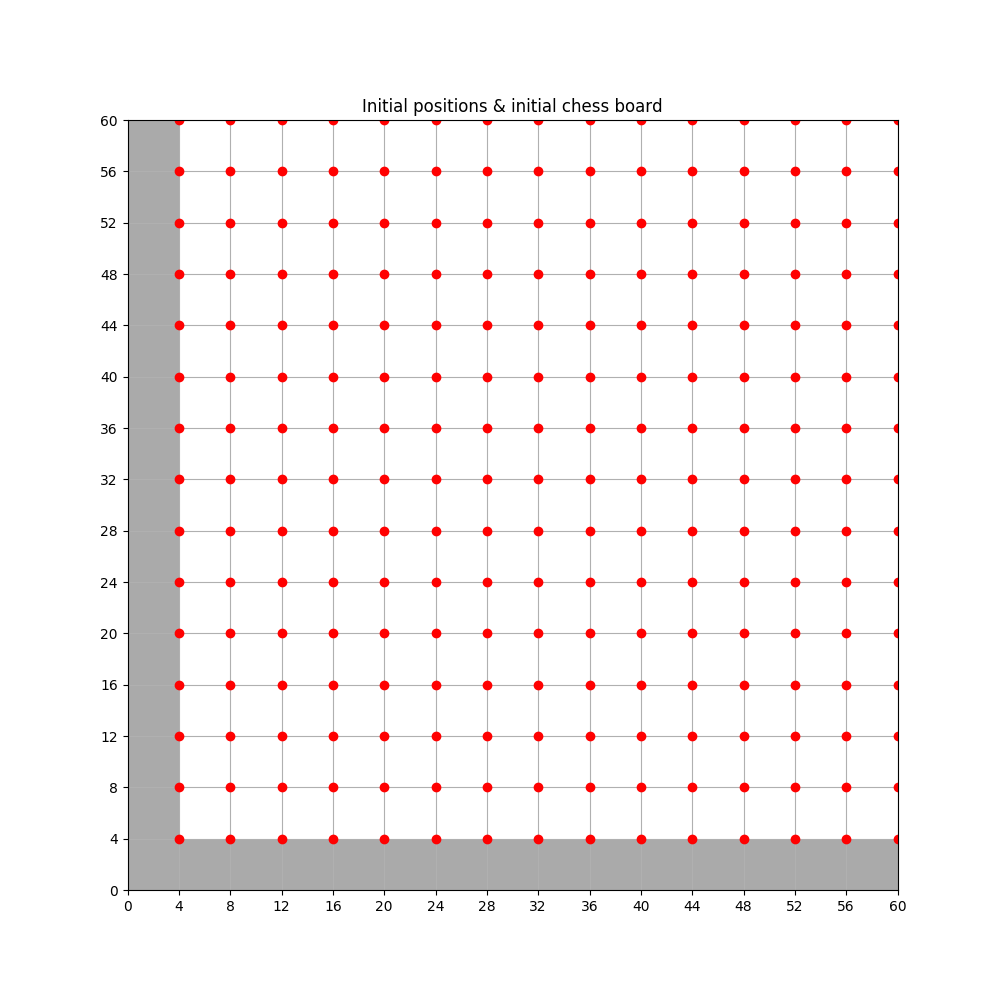
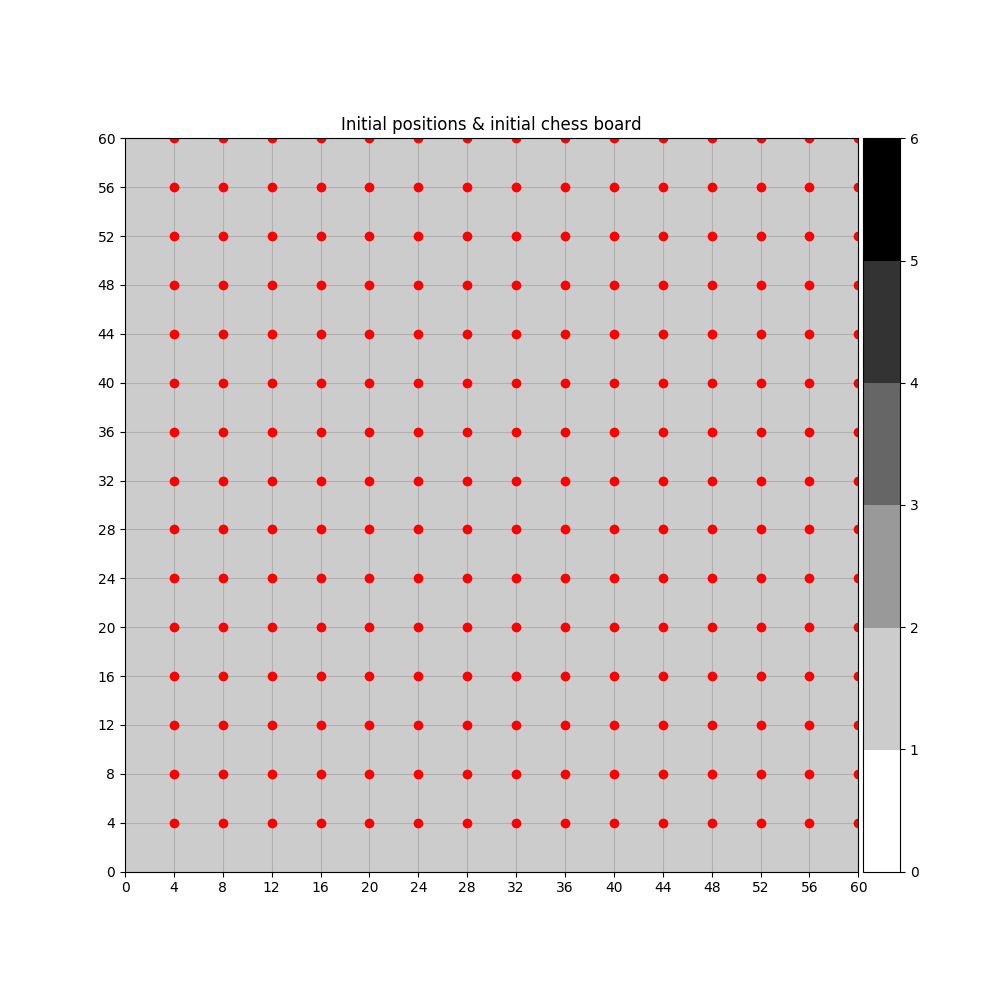
- Balls replacement looks sound. Ready for next step.

diff --git a/test_units/test_replace_bad_balls.py b/test_units/test_replace_bad_balls.py
@@ -3,7 +3,10 @@ import numpy as np
 import matplotlib
 #matplotlib.use('qt5agg')
 import matplotlib.pyplot as plt
+from mpl_toolkits.axes_grid1 import make_axes_locatable
 import matplotlib.ticker as plticker
+from matplotlib import cm
+
 
 import balltracking.balltrack as blt
 import fitstools
@@ -53,27 +56,27 @@ bad_balls = blt.get_bad_balls(pos[:,tstop,:], bt)
 # Get [x, y] coordinates of these bad balls at time = tstop
 xbad = pos[0, tstop, bad_balls]
 ybad = pos[1, tstop, bad_balls]
+
+# Initial chess board
+chess_board_init = blt.fill_coarse_grid(bt, bt.xstart, bt.ystart)
 # Fill the coarse grid at the cells that map to the bad positions
-chess_board = blt.fill_coarse_grid(bt, xbad, ybad)
-# The above fills the chess_board with only bad balls
-# TODO: Populate the chessboard with also all the balls. Show it maybe before the latter.
-
-
+chess_board_all = blt.fill_coarse_grid(bt, pos[0, tstop, :], pos[1, tstop, :])
+chess_board_bad = blt.fill_coarse_grid(bt, xbad, ybad)
 # Use a copy of the pos array, because relocating the bad balls overwrite that input.
 pos2 = pos.copy()
 # Replace bad balls and get the new positions that fills the empty coarse grid cells
 xnew, ynew = blt.replace_bad_balls(pos2[:,tstop,:], surface, bt)
+# Check new chess board
+chess_board_relocation = blt.fill_coarse_grid(bt, xnew, ynew)
 
-# Check new state of the chessboard
-bad_balls_mask = blt.get_bad_balls(pos2[:,tstop,:], bt)
-# Get [x, y] coordinates of these bad balls at time = tstop
-xbad2 = pos2[0, tstop, bad_balls[np.logical_not(bad_balls_mask)]]
-ybad2 = pos2[1, tstop, bad_balls]
-# Fill the coarse grid at the cells that map to the bad positions
-chess_board2 = blt.fill_coarse_grid(bt, xbad2, ybad2)
-
+# Get rid of nan to see new chessboard
+validmask = pos2[2,tstop,:] != -1
+valid_pos = pos2[:, tstop, validmask]
+new_chess_board = blt.fill_coarse_grid(bt, valid_pos[0, :], valid_pos[1, :])
 
 
+
+gmap = cm.gray_r.from_list('whatever', ('white', 'black'), N=6)
 
 ### Display ###
 print_fig = True
@@ -82,9 +85,16 @@ fig = plt.figure(2, figsize=(10, 10))
 ax = fig.add_subplot(1,1,1)
 
 # Overlay initial positions
-plt.plot(bt.xstart, bt.ystart, 'ro')
-plt.axis([0, 60, 0, 60])
-plt.imshow(bt.coarse_grid, cmap='gray_r', origin='lower', vmin=0, vmax=3, extent=(0,bt.nx-1, 0, bt.ny-1))
+ax.plot(bt.xstart, bt.ystart, 'ro')
+ax.axis([0, 60, 0, 60])
+im = ax.imshow(chess_board_init, cmap=gmap, origin='lower', vmin=0, vmax=6, extent=(0,bt.nx-1, 0, bt.ny-1))
+
+ax.set_title('Initial positions & initial chess board')
+
+divider = make_axes_locatable(ax)
+cax = divider.append_axes("right", size="5%", pad=0.05)
+cb1 = plt.colorbar(im, cax=cax)
+
 
 # Overaly the coarse grid lines
 #Spacing between each line
@@ -94,48 +104,56 @@ ax.xaxis.set_major_locator(loc)
 ax.yaxis.set_major_locator(loc)
 ax.grid(which='major', axis='both', linestyle='-')
 
-plt.title('Initial positions & initial chess board')
-
 if print_fig:
     plt.savefig('/Users/rattie/Dev/sdo_tracking_framework/figures/replace_bad_balls_0.png')
 
+
 # Overlay all other integrated positions
-plt.plot(pos[0, :, :], pos[1, :, :], 'b.')
+ax.plot(pos[0, :, :], pos[1, :, :], 'b.')
 # Last position
-plt.plot(pos[0, tstop, :], pos[1, tstop, :], 'c.', markersize=4)
-plt.title('All positions untill tstop = %d'%tstop)
+ax.plot(pos[0, tstop, :], pos[1, tstop, :], 'c.', markersize=4)
+ax.set_title('All positions untill tstop = %d'%tstop)
 
 if print_fig:
     plt.savefig('/Users/rattie/Dev/sdo_tracking_framework/figures/replace_bad_balls_1.png')
 
-# Show the chess board with and setup proper axis
-plt.imshow(chess_board, cmap='gray_r', origin='lower', vmin=0, vmax=3, extent=(0,bt.nx-1, 0, bt.ny-1))
-plt.title('Chessboard of bad cells')
 
 # bad position
-plt.plot(xbad, ybad, 'yo', markersize=6, markerfacecolor='none', mew=2)
+ax.plot(xbad, ybad, 'yo', markersize=6, markerfacecolor='none', mew=2)
 #plt.plot(np.floor(x/bt.ballspacing)*bt.ballspacing, np.floor(y/bt.ballspacing)*bt.ballspacing, 'ro', markersize=6, markerfacecolor='none')
-plt.title('Bad positions & chess board')
+
+# Show the chess board with just the bad balls
+im = ax.imshow(chess_board_all, cmap=gmap, origin='lower', vmin=0, vmax=5, extent=(0,bt.nx-1, 0, bt.ny-1))
+ax.set_title('Chessboard & overpopulation')
+
 
 if print_fig:
     plt.savefig('/Users/rattie/Dev/sdo_tracking_framework/figures/replace_bad_balls_2.png')
 
 # Add the new positions
-plt.plot(xnew, ynew, 'o', markeredgecolor='xkcd:green', markersize = 8, markerfacecolor='none', mew=2)
-plt.title('New positions')
+ax.plot(xnew, ynew, 'o', markeredgecolor='xkcd:green', markersize = 8, markerfacecolor='none', mew=2)
+ax.set_title('New positions')
 
 if print_fig:
     plt.savefig('/Users/rattie/Dev/sdo_tracking_framework/figures/replace_bad_balls_3.png')
 
 ## With new chessboard
 
-# Show the chess board with and setup proper axis
-plt.imshow(chess_board2, cmap='gray_r', origin='lower', vmin=0, vmax=3, extent=(0,bt.nx-1, 0, bt.ny-1))
-plt.title('New chessboard of bad cells')
+# Show the chess board with just the bad balls
+im = ax.imshow(chess_board_relocation, cmap=gmap, origin='lower', vmin=0, vmax=5, extent=(0,bt.nx-1, 0, bt.ny-1))
+ax.set_title('New positions & associated chessboard')
+
 
 if print_fig:
     plt.savefig('/Users/rattie/Dev/sdo_tracking_framework/figures/replace_bad_balls_4.png')
 
+# Show the chess board with just the bad balls
+im = ax.imshow(new_chess_board, cmap=gmap, origin='lower', vmin=0, vmax=5, extent=(0,bt.nx-1, 0, bt.ny-1))
+ax.set_title('All positions, updated chessboard')
+
+
+if print_fig:
+    plt.savefig('/Users/rattie/Dev/sdo_tracking_framework/figures/replace_bad_balls_5.png')
 
 
 # # ball labels

diff --git a/balltracking/balltrack.py b/balltracking/balltrack.py
@@ -246,6 +246,8 @@ def integrate_global_motion(bt, dataseries):
         for _ in range(bt.intsteps):
             integrate_motion(bt.pos, bt.vel, bt, surface)
 
+        bt.balls_age += 1
+
 
 def integrate_motion(pos, vel, bt, surface, return_copies=False):
 
@@ -414,7 +416,7 @@ def replace_bad_balls(pos, surface, bt):
 
         # Get the indices of bad balls in order to assign them with new positions
         bad_balls_idx = np.nonzero(bt.bad_balls_mask)[0][0:nemptycells]
-
+        # Relocate the previously flagged balls in all the empty cells
         xnew = bt.ballspacing * x0.astype(np.float32)#+ bt.rs
         ynew = bt.ballspacing * y0.astype(np.float32)#+ bt.rs
         znew = put_balls_on_surface(surface, xnew, ynew, bt.rs, bt.dp)
